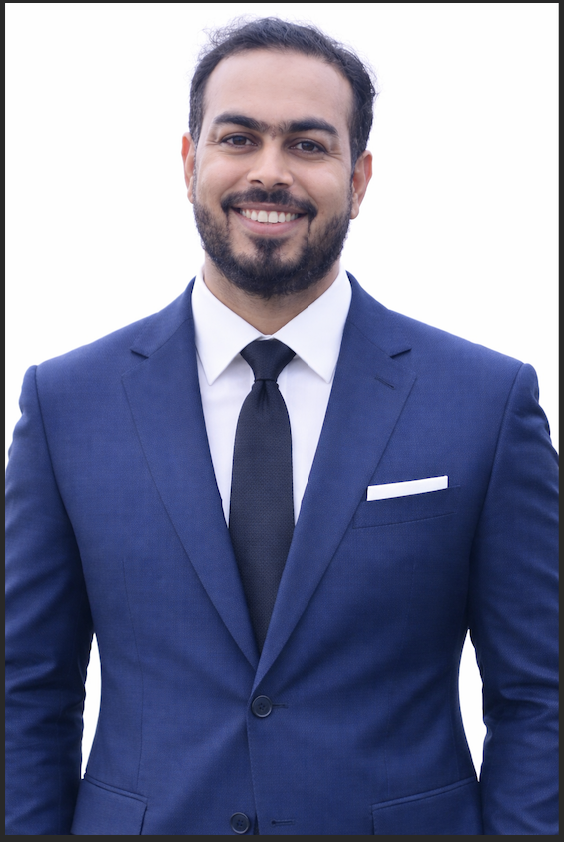
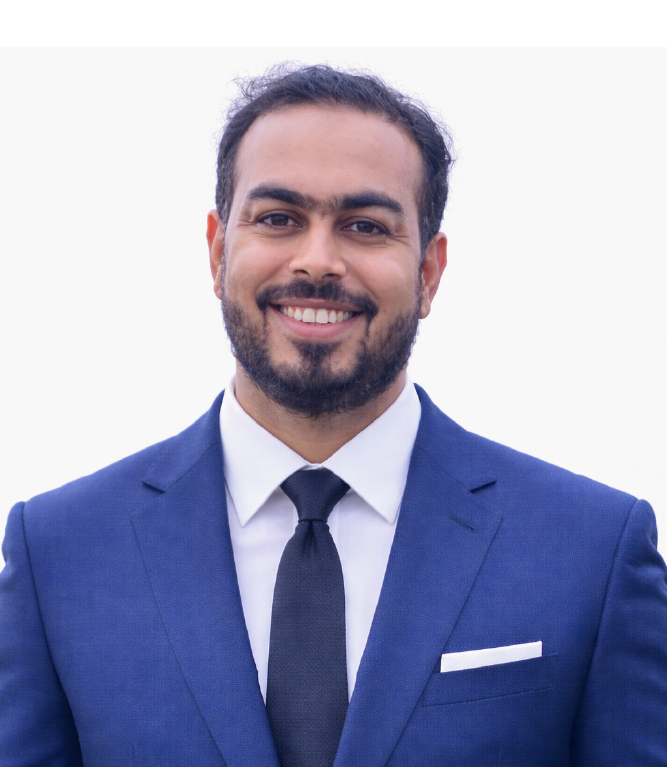
(fix) leaders photo changed

diff --git a/src/app/layout.js b/src/app/layout.js
@@ -65,8 +65,8 @@ export const metadata = {
 
 export default function RootLayout({ children }) {
   return (
-    <html lang="en" className={appolo.className}>
-      <body className="antialiased">
+    <html lang="en" className={appolo.className} suppressHydrationWarning>
+      <body className="antialiased" suppressHydrationWarning>
         <LayoutWrapper>
           {children}
         </LayoutWrapper>
